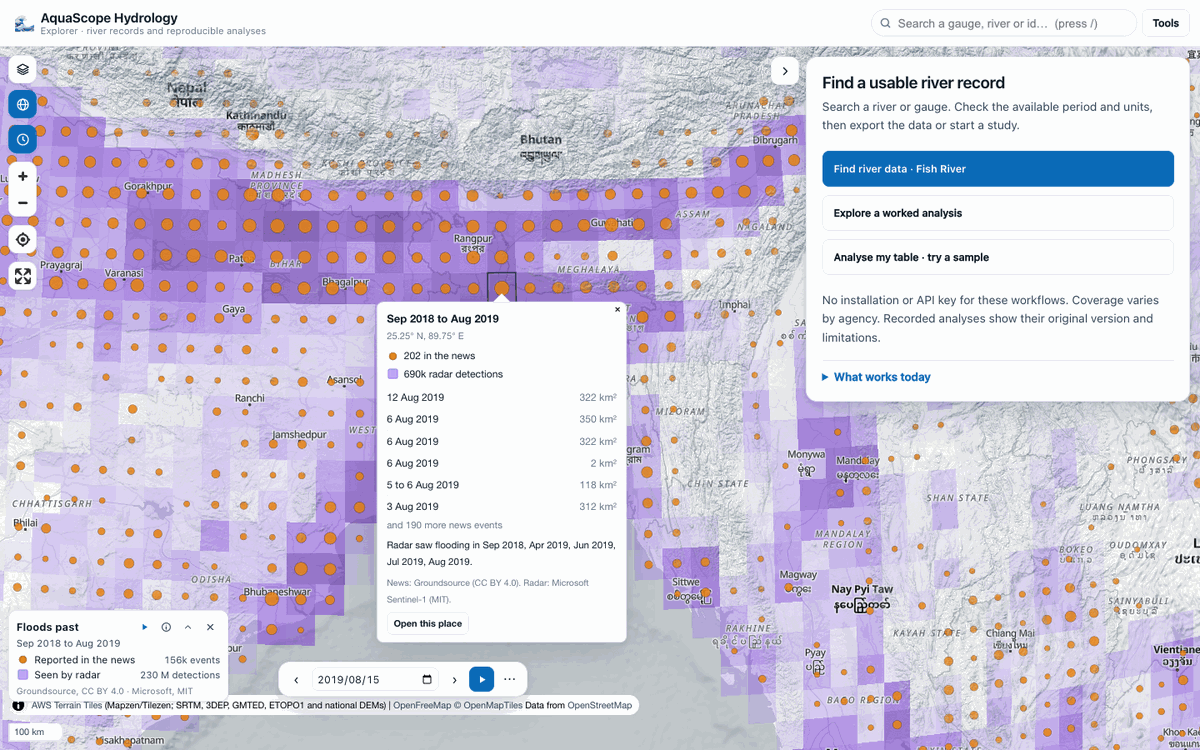
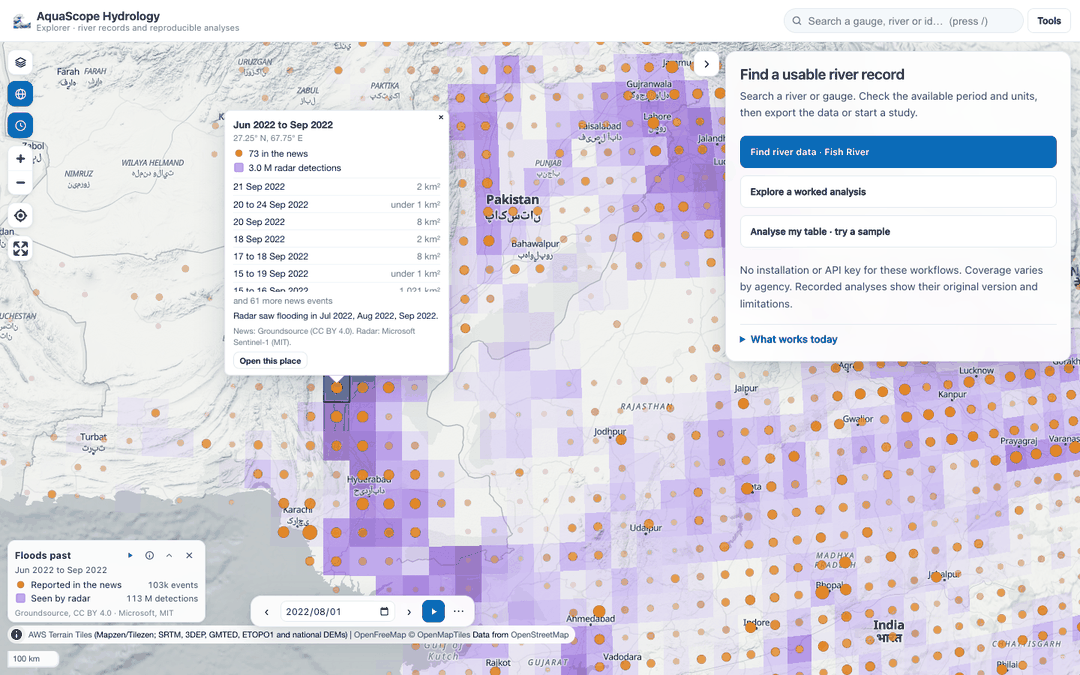
Floods past review: calmer marks, honest notes, a phone-sized cell card (#547)
- Radar cells stay clear below 200 detections (three cells in four in any month
  had a faint tint, so whole countries looked flooded); the ramp climbs to a
  lighter violet on dark and satellite basemaps.
- A news circle fades with a small count, so one report is a whisper and fifty
  are solid (colour carries it, so the crossfade still works).
- The time bar no longer says "Floods past: Jan 2000 to Feb 2026 only" on the
  page's first view, where the legend already says it shows the latest twelve
  months on record.
- A month after the news record says so ("No news record ... news runs from
  Jan 2000 to Feb 2026 only") instead of "0 flood events".
- On a phone a clicked cell is brought up near the top and its card opens below
  it, above the time bar, with the legend stepping aside; areas under 1 km2 read
  "under 1 km2" rather than "0 km2"; a cell with both marks answers a click once.
- The legend card sits clear of the attribution line.

diff --git a/explorer/src/floods-past.js b/explorer/src/floods-past.js
@@ -18,16 +18,16 @@ import { renderCredits } from "./layer-ui.js?v=__BUILD__";
 import { openModal } from "./shell.js?v=__BUILD__";
 import { callLight } from "./worker-client.js?v=__BUILD__";
 import {
-  CELLS, CELL_MINZOOM, FLOODS_PAST_BASE, HEAT_MAXZOOM, MAX_MONTHS, NEWS_COLOR, NEWS_STROKE, POINTS, RADAR_COLOR,
+  CELLS, CELL_MINZOOM, DARK_BASEMAPS, FLOODS_PAST_BASE, HEAT_MAXZOOM, MAX_MONTHS, NEWS_COLOR, NEWS_STROKE, POINTS, RADAR_COLOR,
   RADAR_PERIOD, cellBbox, cellsGeoJSON, eventDates, fmtCount, legendLines, monthLabel, monthsBetween,
-  monthsOnRecord, newsHeat, newsRadius, newsWeight, placeLabel, radarFill, radarHeat, radarWeight,
-  readFloodsParam, windowFor, windowLabel,
+  monthsOnRecord, newsFill, newsHeat, newsRadius, newsStroke, newsWeight, placeLabel, radarFill, radarHeat, radarWeight,
+  readFloodsParam, windowFor, windowLabel, areaLabel,
 } from "./floods-past-core.js?v=__BUILD__";
 
 const SLOTS = ["a", "b"];
 const LAYER_IDS = [...SLOTS.flatMap((s) => [`fp-heat-radar-${s}`, `fp-heat-news-${s}`, `fp-radar-${s}`, `fp-news-${s}`]),
   "fp-sel-line"];
-const OPACITY = { news: 0.85, stroke: 0.6, newsHeat: 0.85, radarHeat: 0.8 };
+const OPACITY = { news: 0.9, stroke: 1, newsHeat: 0.85, radarHeat: 0.8 };
 const EMPTY = { type: "FeatureCollection", features: [] };
 
 let index;                 // undefined: not read yet; null: not published; else index.json
@@ -41,6 +41,7 @@ let shown = null;          // the GeoJSON on the front slot, re-added after a ba
 let popup = null;
 let popupRun = 0;
 
+const narrow = () => Boolean(globalThis.matchMedia && matchMedia("(max-width: 520px)").matches);
 const still = () => Boolean(globalThis.matchMedia && matchMedia("(prefers-reduced-motion: reduce)").matches);
 const fadeMs = () => (still() ? 0 : 480);
 
@@ -106,7 +107,7 @@ function ensureLayers() {
     // closer in, radar shades its half-degree cells and news is a circle per cell, and a click lands on either.
     map.addLayer({
       id: `fp-radar-${s}`, type: "fill", source: `fp-${s}`, minzoom: CELL_MINZOOM, filter: CELLS,
-      paint: { "fill-color": radarFill(), "fill-opacity": k, "fill-opacity-transition": t, "fill-antialias": false },
+      paint: { "fill-color": radarFill(DARK_BASEMAPS.has(state.basemap)), "fill-opacity": k, "fill-opacity-transition": t, "fill-antialias": false },
     }, belowLabels() || before);
     // News under radar at the world view: the reports are everywhere people are, the radar glow is where
     // the water was, and it should not be buried under the reports.
@@ -122,9 +123,9 @@ function ensureLayers() {
       filter: ["all", POINTS, [">", ["get", "news"], 0]],
       layout: { "circle-sort-key": ["-", 0, ["get", "news"]] },
       paint: {
-        "circle-color": NEWS_COLOR, "circle-radius": newsRadius(),
+        "circle-color": newsFill(), "circle-radius": newsRadius(),
         "circle-opacity": OPACITY.news * k, "circle-opacity-transition": t,
-        "circle-stroke-color": NEWS_STROKE, "circle-stroke-width": 0.8,
+        "circle-stroke-color": newsStroke(), "circle-stroke-width": 0.8,
         "circle-stroke-opacity": OPACITY.stroke * k, "circle-stroke-opacity-transition": t,
       },
     }, before);
@@ -194,9 +195,9 @@ async function redraw() {
   if (!state.floodsPast) { renderLegend(); return; }
   const idx = await loadIndex();
   if (!state.floodsPast) return;
-  syncDated(idx);
   const win = windowFor(timeState(), idx ? (idx.news && idx.news.last ? idx.news.last.slice(0, 7) : idx.last) : null);
   current = win;
+  syncDated(idx);
   renderLegend();
   if (!idx) return;
   const months = monthsOnRecord(idx, win.months);
@@ -219,17 +220,21 @@ async function redraw() {
 }
 
 // The time bar shows itself for a dated layer; Floods past is one while it is on.
+// A date after the record shows the latest twelve months, which the legend says,
+// so the bar's "only" note is kept for when the layer really has nothing to show.
 function syncDated(idx) {
-  const had = datedExtras.has("floods-past");
+  const had = datedExtras.get("floods-past");
   if (state.floodsPast && idx) {
     datedExtras.set("floods-past", {
       id: "floods-past", label: "Floods past", time: true, monthly: true,
-      since: `${idx.first}-01`, until: `${idx.last}-01`,
+      since: `${idx.first}-01`, until: current.latest ? undefined : `${idx.last}-01`,
     });
   } else {
     datedExtras.delete("floods-past");
   }
-  if (had !== datedExtras.has("floods-past")) syncTimeBar({ layersChanged: true });
+  const now = datedExtras.get("floods-past");
+  if (Boolean(had) !== Boolean(now)) syncTimeBar({ layersChanged: true });
+  else if (now && had.until !== now.until) syncTimeBar();
 }
 
 export function setFloodsPast(on, { write = true } = {}) {
@@ -251,7 +256,7 @@ export function setFloodsPast(on, { write = true } = {}) {
 const legendHost = () => $("fp-legend");
 
 // Folded, the legend is one line (the two marks and the months): how it starts on a phone, where the map is small.
-let folded = Boolean(globalThis.matchMedia && matchMedia("(max-width: 520px)").matches);
+let folded = narrow();
 let noteText = "";
 function setNote(text) { noteText = text || ""; renderLegend(); }
 function setBusy(on) { const c = $("fp-legend"); if (c) c.classList.toggle("busy", Boolean(on)); }
@@ -388,7 +393,7 @@ function eventsHtml(res, months) {
   if (events.length) {
     const more = (news.events_found || 0) - events.length;
     html += `<ul class="fp-events">${events.map((e) => `<li><span>${escapeHtml(eventDates(e.start, e.end))}</span>` +
-      `<span class="muted">${e.area_km2 ? `${fmtCount(Math.round(e.area_km2))} km²` : ""}</span></li>`).join("")}</ul>`;
+      `<span class="muted">${areaLabel(e.area_km2)}</span></li>`).join("")}</ul>`;
     if (more > 0) html += `<p class="fp-pop-note muted">and ${fmtCount(more)} more news events</p>`;
   }
   const byMonth = (res.radar && res.radar.by_month) || {};
@@ -401,7 +406,11 @@ function eventsHtml(res, months) {
   return html;
 }
 
+let lastClick = null;
 async function onCellClick(e) {
+  // A cell with both marks hears one click twice (once per layer): answer it once.
+  if (e.originalEvent && e.originalEvent === lastClick) return;
+  lastClick = e.originalEvent || null;
   // A gauge under the click wins: it has its own handler.
   if (map.queryRenderedFeatures(e.point, { layers: ["points", "clusters"].filter((id) => map.getLayer(id)) }).length) return;
   const f = (e.features || [])[0];
@@ -414,12 +423,20 @@ async function onCellClick(e) {
   const deg = (index && index.deg) || 0.5;
   const [w0, s0] = cellBbox(p.row, p.col, deg);
   const coords = [w0 + deg / 2, s0 + deg / 2];
-  popup = new maplibregl.Popup({ closeButton: true, closeOnClick: true, maxWidth: "300px", className: "fp-popup", offset: 6 })
+  // On a phone the map is a strip above the sheet: bring the cell up near its top and open the card below it.
+  const phone = narrow();
+  if (phone) map.panBy([0, e.point.y - 18], { duration: still() ? 0 : 300 });
+  popup = new maplibregl.Popup({ closeButton: true, closeOnClick: true, maxWidth: phone ? "min(300px, calc(100vw - 32px))" : "300px",
+    className: "fp-popup", offset: 6, ...(phone ? { anchor: "top" } : {}) })
     .setLngLat(coords)
     .setHTML(cellCard(p, months, '<p class="fp-pop-note muted" role="status">Reading the events…</p>'))
     .addTo(map);
   const opened = popup;
-  popup.on("close", () => { if (popup === opened) { popup = null; popupRun++; outlineCell(null); } });
+  document.body.classList.add("fp-pop-open");
+  popup.on("close", () => {
+    document.body.classList.remove("fp-pop-open");
+    if (popup === opened) { popup = null; popupRun++; outlineCell(null); }
+  });
   const bbox = cellBbox(p.row, p.col, (index && index.deg) || 0.5);
   outlineCell(bbox);
   let res;

diff --git a/explorer/src/floods-past-core.js b/explorer/src/floods-past-core.js
@@ -220,12 +220,33 @@ export function newsRadius() {
   ];
 }
 
-// The radar cell's colour: transparent for a handful of detections, deep violet for a million (the
-// fill's own opacity is left free for the crossfade between months).
-export function radarFill() {
-  return ["interpolate", ["linear"], ln1p("radar"),
-    0, "rgba(167,139,250,0)", Math.log(1 + 10), "rgba(167,139,250,0.1)", Math.log(1 + 1000), "rgba(139,92,246,0.26)",
-    Math.log(1 + 100000), "rgba(109,40,217,0.5)", Math.log(1 + 1000000), "rgba(76,29,149,0.66)"];
+// The radar cell's colour: clear below 200 detections (a few hectares of 20 m pixels, which three cells in
+// four have in any month and which would otherwise tint whole countries), deepening to violet by two million
+// (some 800 km² of water). On a dark basemap the ramp climbs to a lighter violet instead, so the wettest
+// cells stand out rather than sink. The fill's own opacity is left free for the crossfade between months.
+export const DARK_BASEMAPS = new Set(["dark", "satellite", "satellite-recent", "daily"]);
+
+export function radarFill(dark = false) {
+  const stops = dark
+    ? ["rgba(196,181,253,0)", "rgba(167,139,250,0.12)", "rgba(167,139,250,0.24)", "rgba(180,158,252,0.4)",
+      "rgba(205,190,254,0.55)"]
+    : ["rgba(167,139,250,0)", "rgba(167,139,250,0.16)", "rgba(139,92,246,0.32)", "rgba(109,40,217,0.5)",
+      "rgba(76,29,149,0.68)"];
+  const at = [200, 2000, 20000, 200000, 2000000];
+  return ["interpolate", ["linear"], ln1p("radar"), ...at.flatMap((n, i) => [Math.log(1 + n), stops[i]])];
+}
+
+// A news circle fades with a small count, so a cell with one report is a whisper and a cell with fifty is
+// solid: closer in, every inhabited cell has a report or two, and equal dots would be confetti. The colour
+// carries this, not circle-opacity, which the crossfade between months uses.
+export function newsFill() {
+  return ["interpolate", ["linear"], ln1p("news"),
+    Math.log(2), "rgba(232,130,12,0.28)", Math.log(1 + 10), "rgba(232,130,12,0.7)", Math.log(1 + 50), "rgba(232,130,12,1)"];
+}
+
+export function newsStroke() {
+  return ["interpolate", ["linear"], ln1p("news"),
+    Math.log(2), "rgba(122,60,0,0.15)", Math.log(1 + 10), "rgba(122,60,0,0.5)", Math.log(1 + 50), "rgba(122,60,0,0.8)"];
 }
 
 export function fmtCount(n) {
@@ -251,6 +272,13 @@ export function legendLines(index, win) {
     newsCount: totals.news,
     radarCount: covered ? totals.radar : null,
   };
+}
+
+/** An event's affected area: "120 km²", "under 1 km²", or nothing when the source has none. */
+export function areaLabel(km2) {
+  const v = Number(km2);
+  if (!Number.isFinite(v) || v <= 0) return "";
+  return v < 1 ? "under 1 km²" : `${fmtCount(Math.round(v))} km²`;
 }
 
 /** "29 Jul 2021" or "29 to 31 Jul 2021" for a news event. */

diff --git a/explorer/floods-past.css b/explorer/floods-past.css
@@ -4,7 +4,7 @@
 /* Legend cards for map layers stack in the bottom-left corner, above the scale
    and the attribution, and move right with the rail like the map controls. */
 .map-legends {
-  position: absolute; left: 10px; bottom: 58px; z-index: 5;
+  position: absolute; left: 10px; bottom: 70px; z-index: 5;
   display: flex; flex-direction: column; gap: 8px; align-items: flex-start;
   pointer-events: none; transition: left .16s ease;
 }
@@ -46,7 +46,8 @@ body.rail-open .map-legends { left: calc(var(--rail-w) + var(--gap) + 10px); }
   text-underline-offset: 2px;
 }
 
-/* the popup of a clicked cell */
+/* the popup of a clicked cell, above the time bar and the legend */
+.fp-popup { z-index: 7; }
 .fp-popup .maplibregl-popup-content { padding: .55rem .7rem .5rem; }
 .fp-pop { font-size: .76rem; line-height: 1.4; color: var(--ink); min-width: 13rem; }
 .fp-pop-head { display: flex; flex-direction: column; gap: .05rem; margin: 0 1rem .3rem 0; }
@@ -68,6 +69,10 @@ body.rail-open .map-legends { left: calc(var(--rail-w) + var(--gap) + 10px); }
   body.rail-open .map-legends { left: auto; }
   .fp-legend { width: 12.6rem; padding: .35rem .45rem .3rem; font-size: .72rem; }
   .fp-foot { font-size: .62rem; }
+  .fp-events { max-height: 3.7rem; }
+  /* the map is a strip here: while a cell's card is open, the legend steps aside for it */
+  body.fp-pop-open .map-legends { visibility: hidden; }
+  .fp-pop-src { display: none; }
 }
 
 @media (prefers-reduced-motion: reduce) {

diff --git a/aquascope/context/floods_past.py b/aquascope/context/floods_past.py
@@ -408,7 +408,14 @@ def flood_events_month(month: Any = None, *, start: Any = None, end: Any = None,
         return failed("floods_past", sources, exc)
     where = "in this box" if box is not None else "worldwide"
     when = span_label(months)
-    bits = [f"{_plural(n_news, 'flood event')} in the news {where}, {when}"]
+    news_first = str(news_span.get("first") or "")[:7]
+    news_last = str(news_span.get("last") or "")[:7]
+    if news_first and news_last and not any(news_first <= m <= news_last for m in months):
+        # Nothing in the news here is not the same as no floods: the record does not reach these months.
+        bits = [f"No news record {where} for {when}: news runs from {month_label(news_first)} to "
+                f"{month_label(news_last)} only"]
+    else:
+        bits = [f"{_plural(n_news, 'flood event')} in the news {where}, {when}"]
     if not radar_months:
         bits.append(f"radar covers {month_label(RADAR_PERIOD[0])} to {month_label(RADAR_PERIOD[1])} only")
     elif n_radar:

diff --git a/tests/test_context/test_floods_past.py b/tests/test_context/test_floods_past.py
@@ -136,6 +136,9 @@ def test_the_default_is_the_latest_twelve_months_and_says_radar_stopped(web):
     assert "radar covers Oct 2014 to Sep 2024 only" in res["summary"] and not res["radar"]["covered"]
     # a month with no file is never requested
     assert web.requested("months/2025-06") == 0
+    # past the end of the news record, the answer says the record stops rather than "0 flood events"
+    after = fp.flood_events_month("2026-05")
+    assert after["summary"].startswith("No news record worldwide for May 2026: news runs from Jan 2026 to Feb 2026")
 
 
 def test_a_clicked_cell_lists_its_events_and_agrees_with_the_grid(web):

diff --git a/docs/explorer.md b/docs/explorer.md
@@ -168,7 +168,9 @@ Where floods actually happened, on the globe, from the moment the page opens.
 Both are summed per half-degree cell (about 55 km) and month. At the world view
 they are two heat maps, radar over news; from zoom 4.5 each cell is a circle
 (news) and a shaded square (radar). Sizes and shades grow with the logarithm of
-the count, so one very reported city does not drown out a region.
+the count, so one very reported city does not drown out a region, and small
+counts stay quiet: a cell with a single report is a faint dot, and radar cells
+with fewer than 200 detections (a few hectares) are left clear.
 
 The layer follows the time bar, like every dated layer:
 
